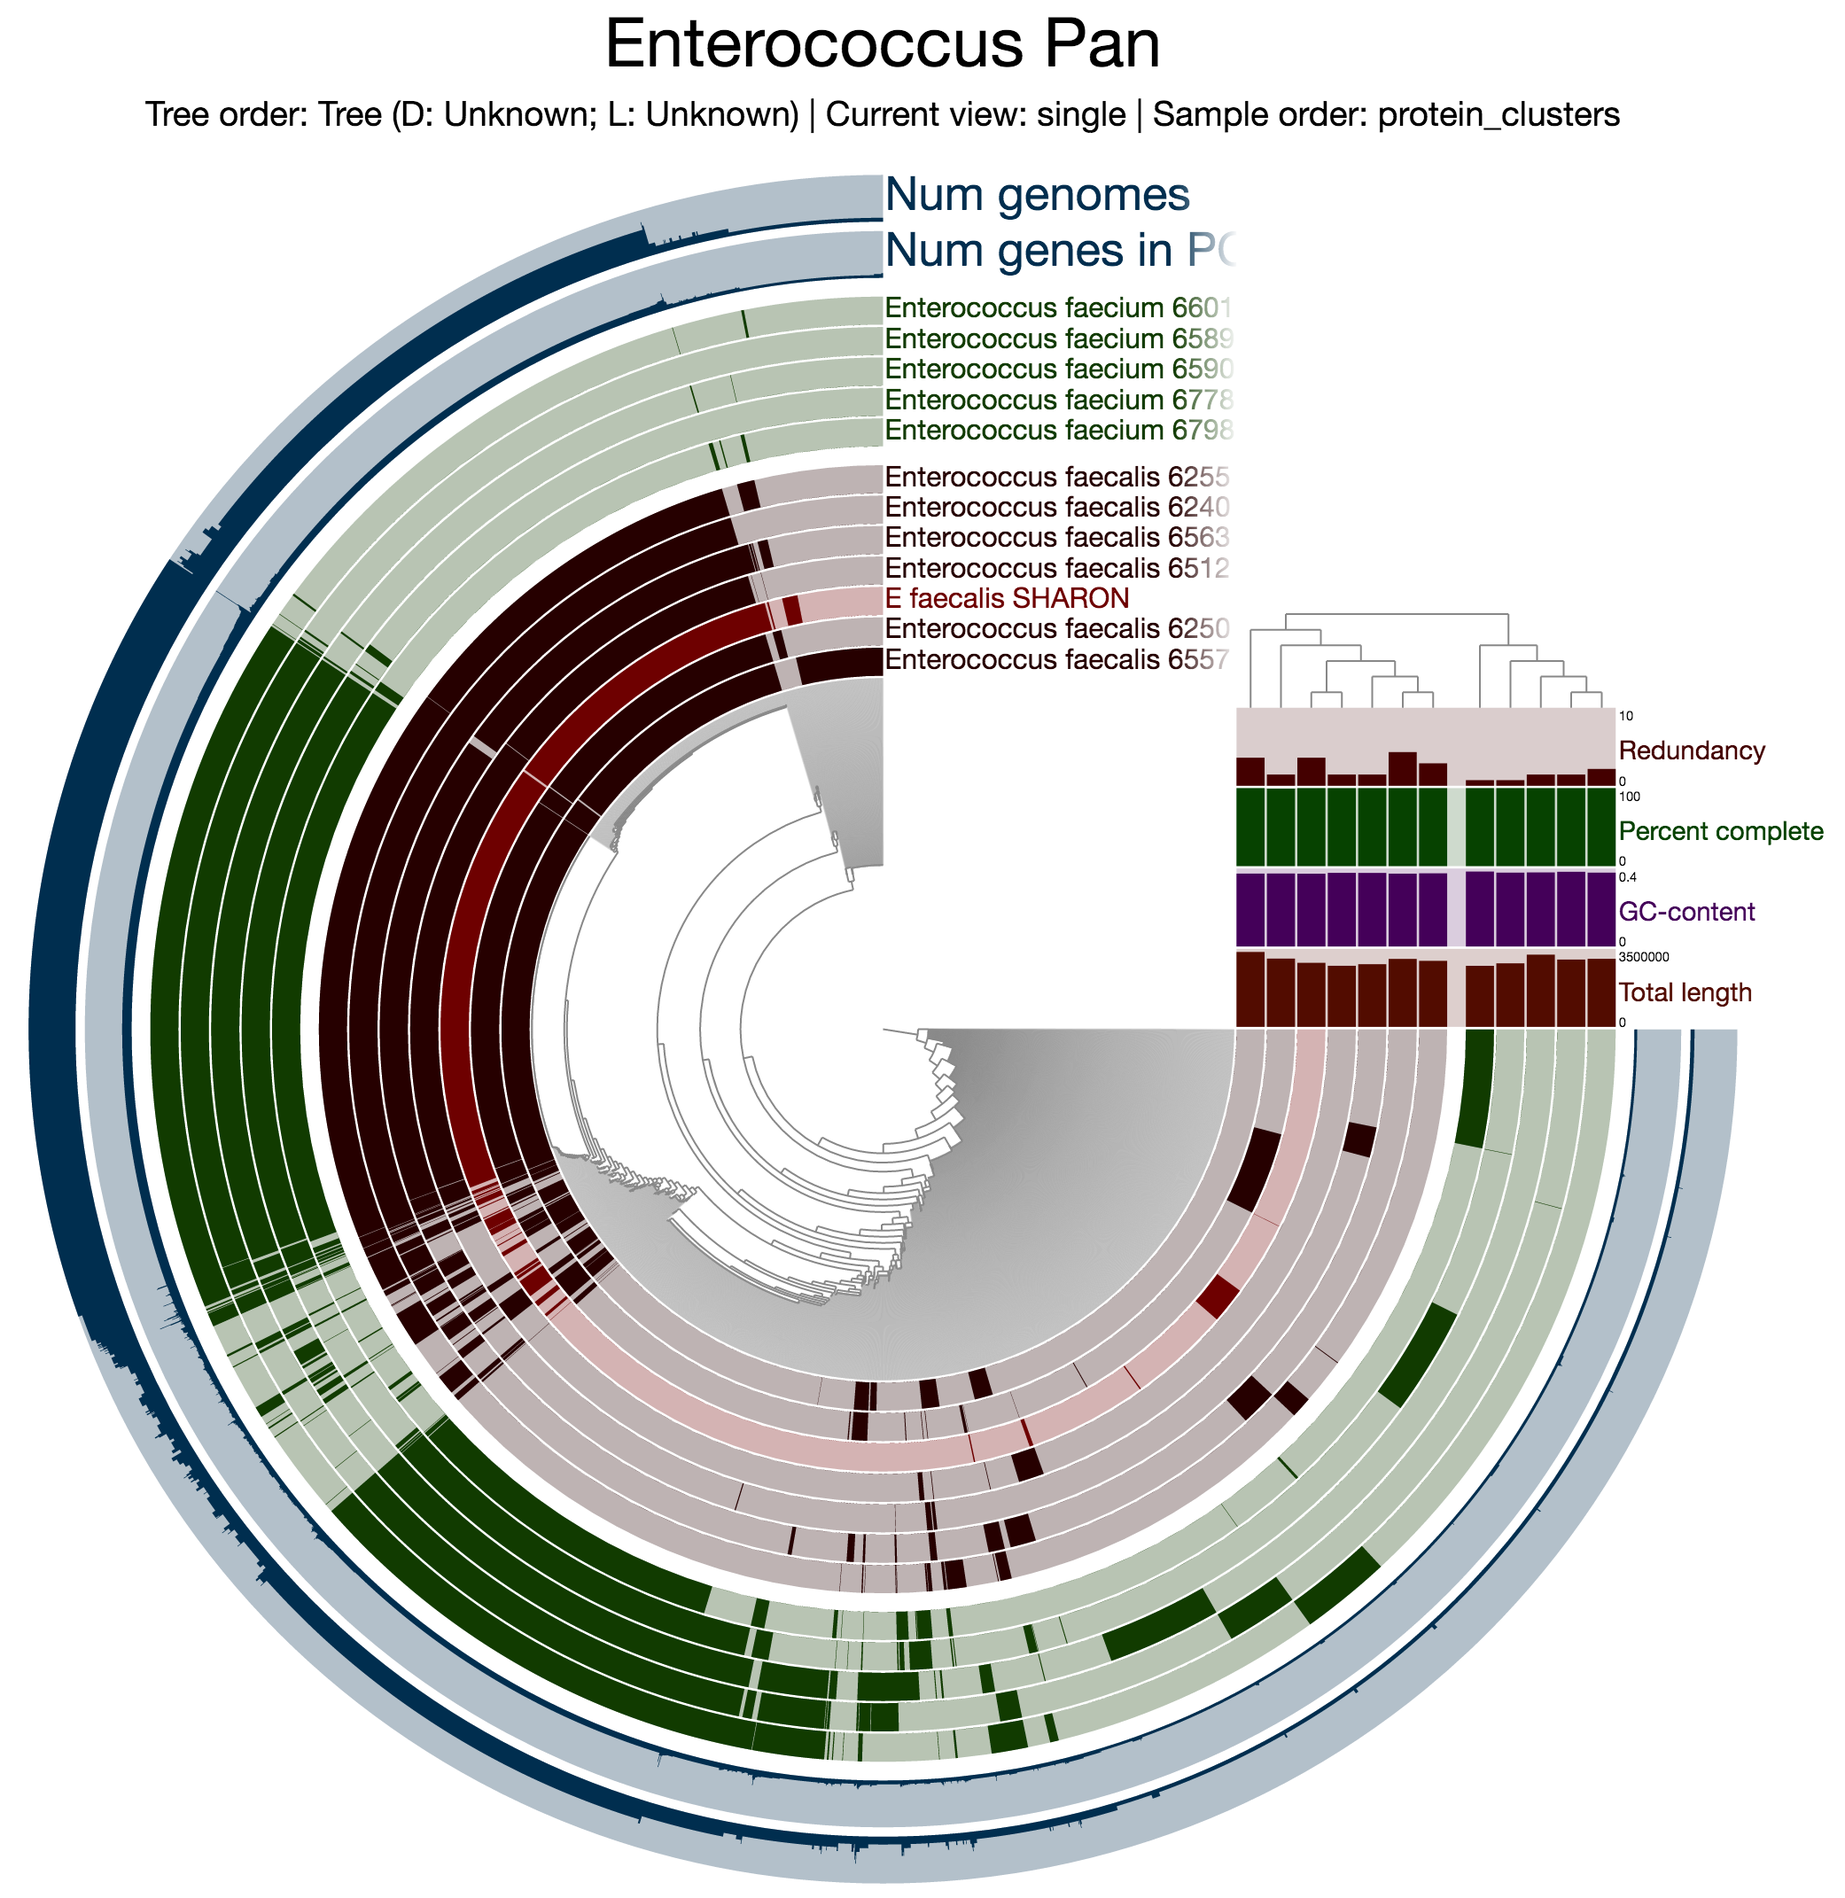
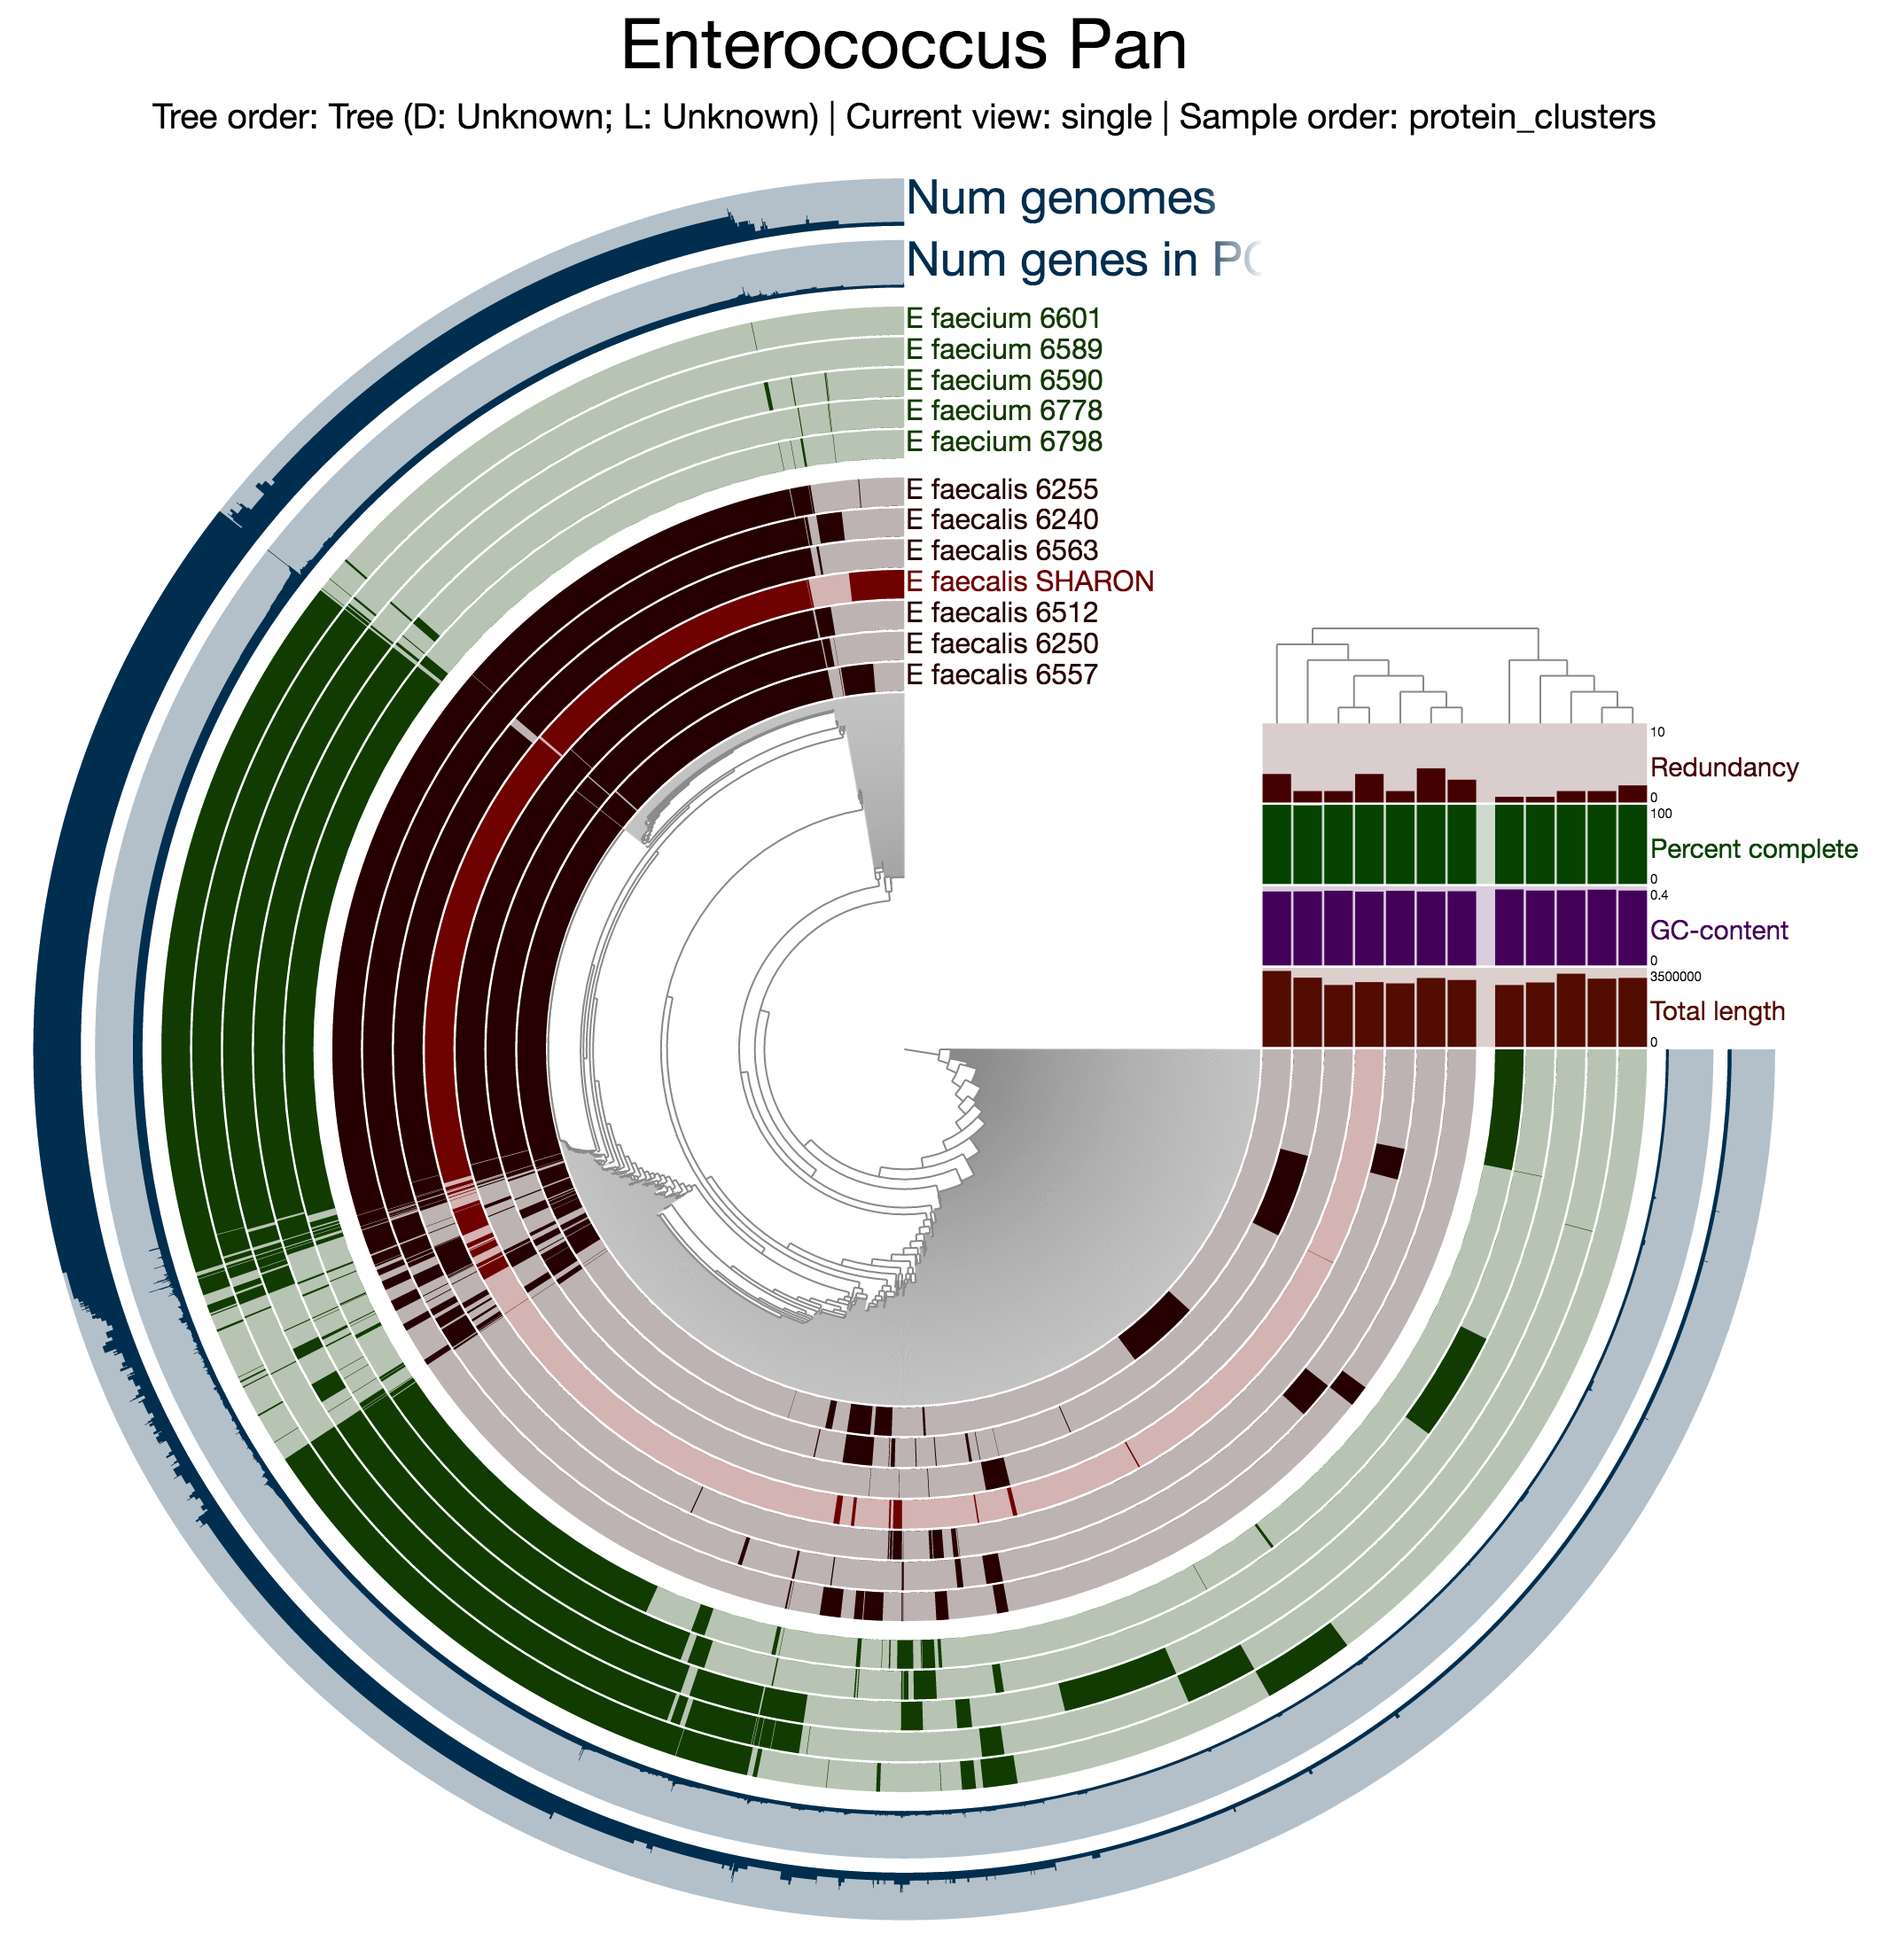
pangenomics!

diff --git a/tutorials/infant-gut/index.md b/tutorials/infant-gut/index.md
@@ -522,6 +522,7 @@ If you run the interactive interface on these results the following way,
                     -s e_faecalis_snvs/samples.db \
                     -t e_faecalis_snvs/tree.txt \
                     -p e_faecalis_snvs/profile.db \
+                    -A e_faecalis_snvs/additional_view_data.txt \
                     --title "SNV Profile for the E. faecalis bin" \
                     --manual
 {% endhighlight %}
@@ -538,6 +539,7 @@ This view can definitely be improved. I prepared a state file to match colors of
                     -s e_faecalis_snvs/samples.db \
                     -t e_faecalis_snvs/tree.txt \
                     -p e_faecalis_snvs/profile.db \
+                    -A e_faecalis_snvs/additional_view_data.txt \
                     --title "SNV Profile for the E. faecalis bin" \
                     --manual
 {% endhighlight %}
@@ -592,35 +594,114 @@ There are many directions you can go once you have the gene caller IDs associate
 
 Here I will stop, but still we have a lot to talk about!
 
-<div style="display: none">
-## Pangenomic analysis of _E. facealis_ bin
+## A pangenomic analysis
+
+You can also use anvi'o to perform pangenomic analyses, and here I will give a small demo using the now infamous *E. faecalis* bin.
 
 {:.notice}
-STOP here. You don't have the necessary files to go through this, but you will have them very soon!
+**If you haven't followed the previous sections of the tutorial**, you will need the anvi'o merged profile database and the anvi'o contigs database for the IGD available to you. Before you continue, please [click here](#the-contigs-database--anvio-merged-profile-for-the-infant-gut-dataset), do everything mentioned there, and come back here on this page when you are asked to **go back**.
 
-Using anvi'o we could easily do a pangenomic analysis. To demonstrate the pangenomic workflow, I downloaded 6 *E. facealis*, and 5 *E. faecium* genomes into the folder `05_PANGENOMICS`, to analyze them together with our *E. facealis* bin.
+Please run following commands in the IGD dir. They will set the stage for us to take a look at the *E. faecalis* bin:
+
+{% highlight bash %}
+ $ anvi-import-collection additional-files/collections/e-faecalis.txt \
+                          -p PROFILE.db \
+                          -c CONTIGS.db \
+                          -C E_faecalis \
+                          --bins-info additional-files/collections/e-faecalis-info.txt
+{% endhighlight %}
+
+---
+
+For this example I downloaded 6 *E. facealis*, and 5 *E. faecium* genomes to analyze them together with our *E. facealis* bin. For each of these 11 *external genomes*, I generated anvi'o contigs databases. You can find all of them in the additional files directory:
+
+{% highlight bash %}
+ $ ls -lh additional-files/pangenomics/external-genomes/
+total 185984
+-rw-r--r--  1 meren  staff   2.6K Jul 31 23:56 00_INFO_ABOUT_EXTERNAL_GENOMES.txt
+-rw-r--r--  1 meren  staff   4.7M Jul 31 23:56 Enterococcus_faecalis_6240.db
+-rw-r--r--  1 meren  staff   859K Jul 31 23:56 Enterococcus_faecalis_6240.fa.gz
+-rw-r--r--  1 meren  staff   2.9M Jul 31 23:56 Enterococcus_faecalis_6240.h5
+-rw-r--r--  1 meren  staff   4.7M Jul 31 23:56 Enterococcus_faecalis_6250.db
+-rw-r--r--  1 meren  staff   863K Jul 31 23:56 Enterococcus_faecalis_6250.fa.gz
+-rw-r--r--  1 meren  staff   2.9M Jul 31 23:56 Enterococcus_faecalis_6250.h5
+-rw-r--r--  1 meren  staff   4.5M Jul 31 23:56 Enterococcus_faecalis_6255.db
+-rw-r--r--  1 meren  staff   835K Jul 31 23:56 Enterococcus_faecalis_6255.fa.gz
+-rw-r--r--  1 meren  staff   2.8M Jul 31 23:56 Enterococcus_faecalis_6255.h5
+-rw-r--r--  1 meren  staff   4.2M Jul 31 23:56 Enterococcus_faecalis_6512.db
+-rw-r--r--  1 meren  staff   772K Jul 31 23:56 Enterococcus_faecalis_6512.fa.gz
+-rw-r--r--  1 meren  staff   2.6M Jul 31 23:56 Enterococcus_faecalis_6512.h5
+-rw-r--r--  1 meren  staff   5.1M Jul 31 23:56 Enterococcus_faecalis_6557.db
+-rw-r--r--  1 meren  staff   946K Jul 31 23:56 Enterococcus_faecalis_6557.fa.gz
+-rw-r--r--  1 meren  staff   3.2M Jul 31 23:56 Enterococcus_faecalis_6557.h5
+-rw-r--r--  1 meren  staff   4.3M Jul 31 23:56 Enterococcus_faecalis_6563.db
+-rw-r--r--  1 meren  staff   793K Jul 31 23:56 Enterococcus_faecalis_6563.fa.gz
+-rw-r--r--  1 meren  staff   2.7M Jul 31 23:56 Enterococcus_faecalis_6563.h5
+-rw-r--r--  1 meren  staff   4.6M Jul 31 23:56 Enterococcus_faecium_6589.db
+-rw-r--r--  1 meren  staff   852K Jul 31 23:56 Enterococcus_faecium_6589.fa.gz
+-rw-r--r--  1 meren  staff   2.9M Jul 31 23:56 Enterococcus_faecium_6589.h5
+-rw-r--r--  1 meren  staff   4.9M Jul 31 23:56 Enterococcus_faecium_6590.db
+-rw-r--r--  1 meren  staff   915K Jul 31 23:56 Enterococcus_faecium_6590.fa.gz
+-rw-r--r--  1 meren  staff   3.1M Jul 31 23:56 Enterococcus_faecium_6590.h5
+-rw-r--r--  1 meren  staff   4.6M Jul 31 23:56 Enterococcus_faecium_6601.db
+-rw-r--r--  1 meren  staff   860K Jul 31 23:56 Enterococcus_faecium_6601.fa.gz
+-rw-r--r--  1 meren  staff   2.9M Jul 31 23:56 Enterococcus_faecium_6601.h5
+-rw-r--r--  1 meren  staff   4.3M Jul 31 23:56 Enterococcus_faecium_6778.db
+-rw-r--r--  1 meren  staff   806K Jul 31 23:56 Enterococcus_faecium_6778.fa.gz
+-rw-r--r--  1 meren  staff   2.7M Jul 31 23:56 Enterococcus_faecium_6778.h5
+-rw-r--r--  1 meren  staff   4.2M Jul 31 23:56 Enterococcus_faecium_6798.db
+-rw-r--r--  1 meren  staff   773K Jul 31 23:56 Enterococcus_faecium_6798.fa.gz
+-rw-r--r--  1 meren  staff   2.6M Jul 31 23:56 Enterococcus_faecium_6798.h5
+{% endhighlight %}
+
+There also are two files in the `additional-files/pangenomics` directory to describe how to access to the external genomes:
+
+|name|contigs_db_path|
+|:--|:--|
+|E_faecalis_6240|external-genomes/Enterococcus_faecalis_6240.db|
+|E_faecalis_6250|external-genomes/Enterococcus_faecalis_6250.db|
+|E_faecalis_6255|external-genomes/Enterococcus_faecalis_6255.db|
+|E_faecalis_6512|external-genomes/Enterococcus_faecalis_6512.db|
+|E_faecalis_6557|external-genomes/Enterococcus_faecalis_6557.db|
+|E_faecalis_6563|external-genomes/Enterococcus_faecalis_6563.db|
+|E_faecium_6589|external-genomes/Enterococcus_faecium_6589.db|
+|E_faecium_6590|external-genomes/Enterococcus_faecium_6590.db|
+|E_faecium_6601|external-genomes/Enterococcus_faecium_6601.db|
+|E_faecium_6778|external-genomes/Enterococcus_faecium_6778.db|
+|E_faecium_6798|external-genomes/Enterococcus_faecium_6798.db|
+
+and the internal one:
+
+|name|bin_id|collection_id|profile_db_path|contigs_db_path|
+|:--|:--:|:--:|:--|:--|
+|E_faecalis_SHARON|E_faecalis|E_faecalis|../../PROFILE.db|../../CONTIGS.db|
+
+It is this simple to combine MAGs and isolates.
 
 {:.notice}
 You can find a comprehensive tutorial on the anvi'o pangenomic workflow [here]({% post_url anvio/2015-11-14-pangenomics %}).
 
-There is one thing for ECOGEO people to fix first:
+So everything is ready for an analysis. To start the pangenomic workflow, you can run `anvi-pan-genome` program the following way (which takes about 5 minutes on my laptop):
 
 {% highlight bash %}
- $ cd ../05_PANGENOMICS/
- $ sed -i 's/03_ANVIO_MERGED_PROFILE/01_ANVIO_MERGED_PROFILE/g' internal-genomes.txt
+ $ anvi-pan-genome -i additional-files/pangenomics/internal-genomes.txt \
+                   -e additional-files/pangenomics/external-genomes.txt \
+                   --num-threads 4 \
+                   -o pan
 {% endhighlight %}
 
-Then you can run `anvi-pan-genome` program the following way:
+This will generate an output directory with many files, including a sub-directory that contains all the files to run the anvi'o interactive interface to visualize results.
+
+If you initiate the the interactive interface the following way,
 
 {% highlight bash %}
- $ anvi-pan-genome -i internal-genomes.txt -e external-genomes.txt -o enterococcus_pan_genome -T 4
-{% endhighlight %}
-
-This will generate many output files in the output directory, including a sub-directory that contains all the files to run the anvi'o interactive interface to visualize results. You can initiate the interactive interface the following way,
-
-{% highlight bash %}
- $ cd enterococcus_pan_genome/enterococcus_pan_genome/
- $ anvi-interactive -t tree.txt -d view_data.txt -s samples.db -A additional_view_data.txt --manual -p profile.db --title "Enterococcus Pan"
+ $ anvi-interactive -t pan/pan/tree.txt \
+                    -d pan/pan/view_data.txt \
+                    -s pan/pan/samples.db \
+                    -A pan/pan/additional_view_data.txt \
+                    -p pan/pan/profile.db \
+                    --title "Enterococcus Pan" \
+                    --manual
 {% endhighlight %}
 
 To get this ugly looking display:
@@ -630,14 +711,19 @@ To get this ugly looking display:
 I did it prettier for you. If you kill the server, and import the state file the following way, and re-run the server,
 
 {% highlight bash %}
- $ wget http://merenlab.org/tutorials/infant-gut/files/pan-state.json 
- $ anvi-import-state -p profile.db --state pan-state.json --name default
- $ anvi-interactive -t tree.txt -d view_data.txt -s samples.db -A additional_view_data.txt --manual -p profile.db --title "Enterococcus Pan"
+ $ anvi-import-state -p pan/pan/profile.db --state additional-files/state-files/state-pan.json --name default
+ $ anvi-interactive -t pan/pan/tree.txt \
+                    -d pan/pan/view_data.txt \
+                    -s pan/pan/samples.db \
+                    -A pan/pan/additional_view_data.txt \
+                    -p pan/pan/profile.db \
+                    --title "Enterococcus Pan" \
+                    --manual
 {% endhighlight %}
 
 It will look much more reasonable:
 
-[![E. facealis pan](images/e-faecalis-pan-state.png)](images/e-faecalis-pan-state.png){:.center-img .width-50}
+[![E. facealis pan](images/e-faecalis-pan-state.png)](images/e-faecalis-pan-state.png){:.center-img .width-70}
 
 Now not only we can see how our E. facealis genome to what is available, we can also see that it is not missing or carrying a great number of proteins compared to other genomes. The clustering of genomes based on protein clusters indicate that it is most similar to the genome `Enterococcus faecalis 6250`, which, according to the `00_INFO_ABOUT_EXTERNAL_GENOMES.txt` under `05_PANGENOMICS` directory, corresponds to the assembly ID [ASM28119v1](https://www.ncbi.nlm.nih.gov/gquery/?term=ASM28119v1) if you were to be interested in exploring further.
-</div>
+
